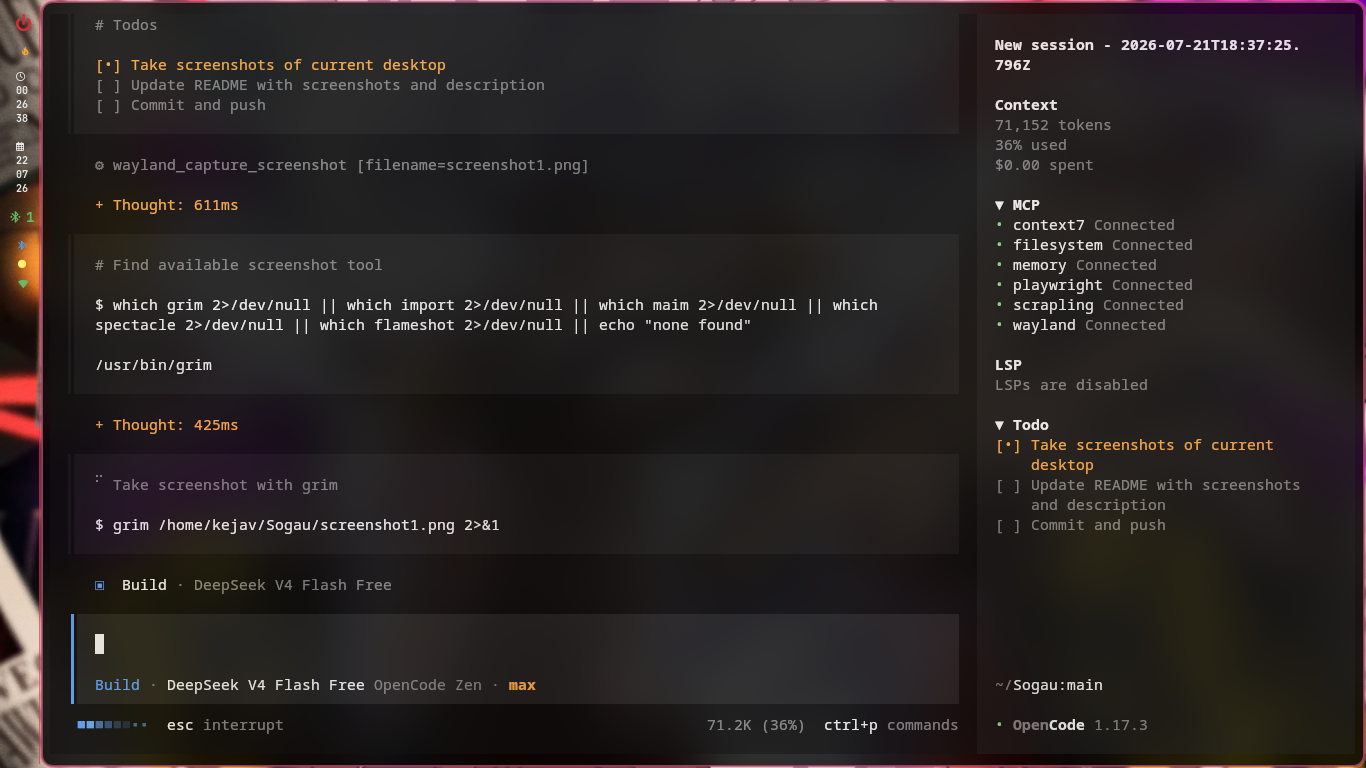
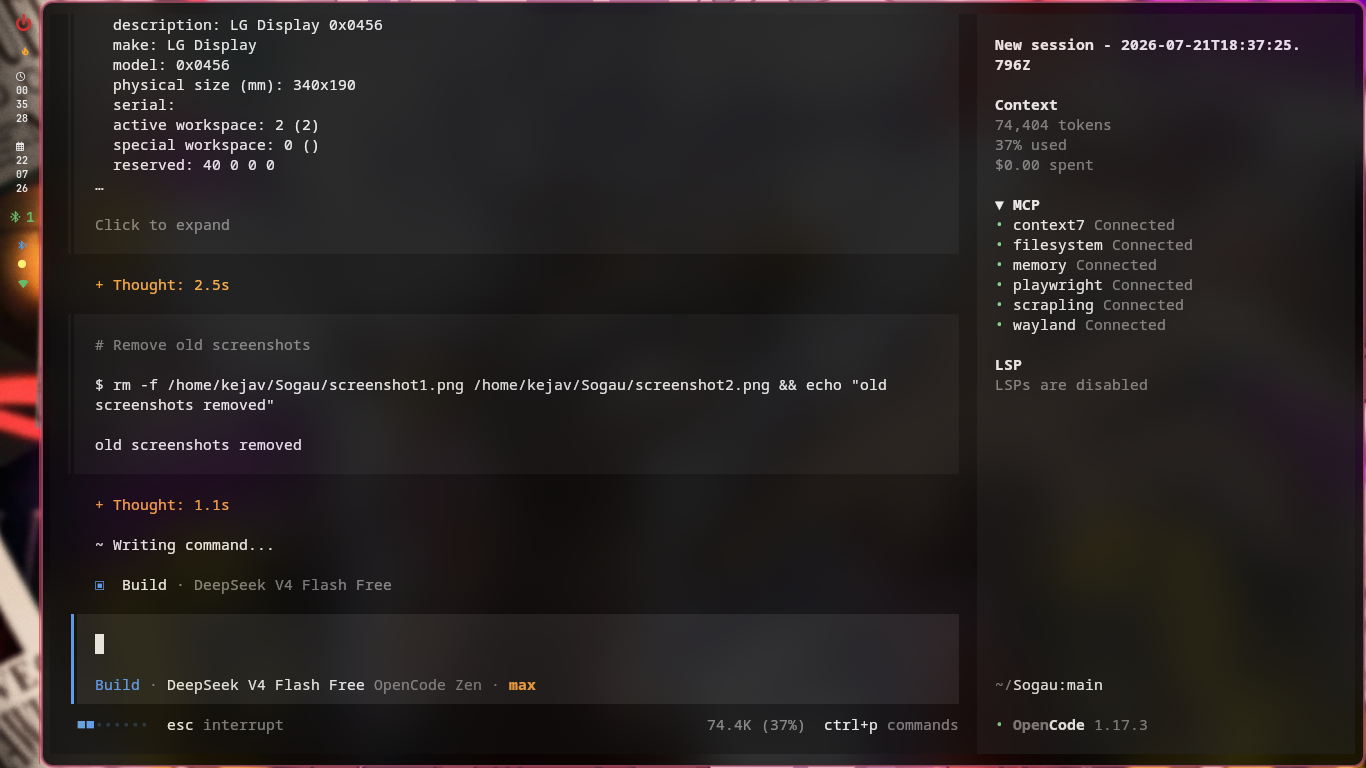
Update screenshots

diff --git a/README.md b/README.md
@@ -1,7 +1,3 @@
-<p align="center">
-  <img src="screenshot1.png" alt="Sogau Desktop" width="800"/>
-</p>
-
 <h1 align="center">Sogau Dotfiles</h1>
 
 <p align="center">
@@ -18,7 +14,18 @@
 ## Screenshots
 
 <p align="center">
-  <img src="screenshot2.png" alt="Desktop Overview" width="800"/>
+  <img src="screenshot1.png" alt="Clean Desktop" width="800"/>
+  <em>Clean Desktop</em>
+</p>
+
+<p align="center">
+  <img src="screenshot2.png" alt="Terminal with fastfetch" width="800"/>
+  <em>Terminal + Fastfetch</em>
+</p>
+
+<p align="center">
+  <img src="screenshot3.png" alt="Desktop Overview" width="800"/>
+  <em>Desktop Overview</em>
 </p>
 
 ## Included Configs
